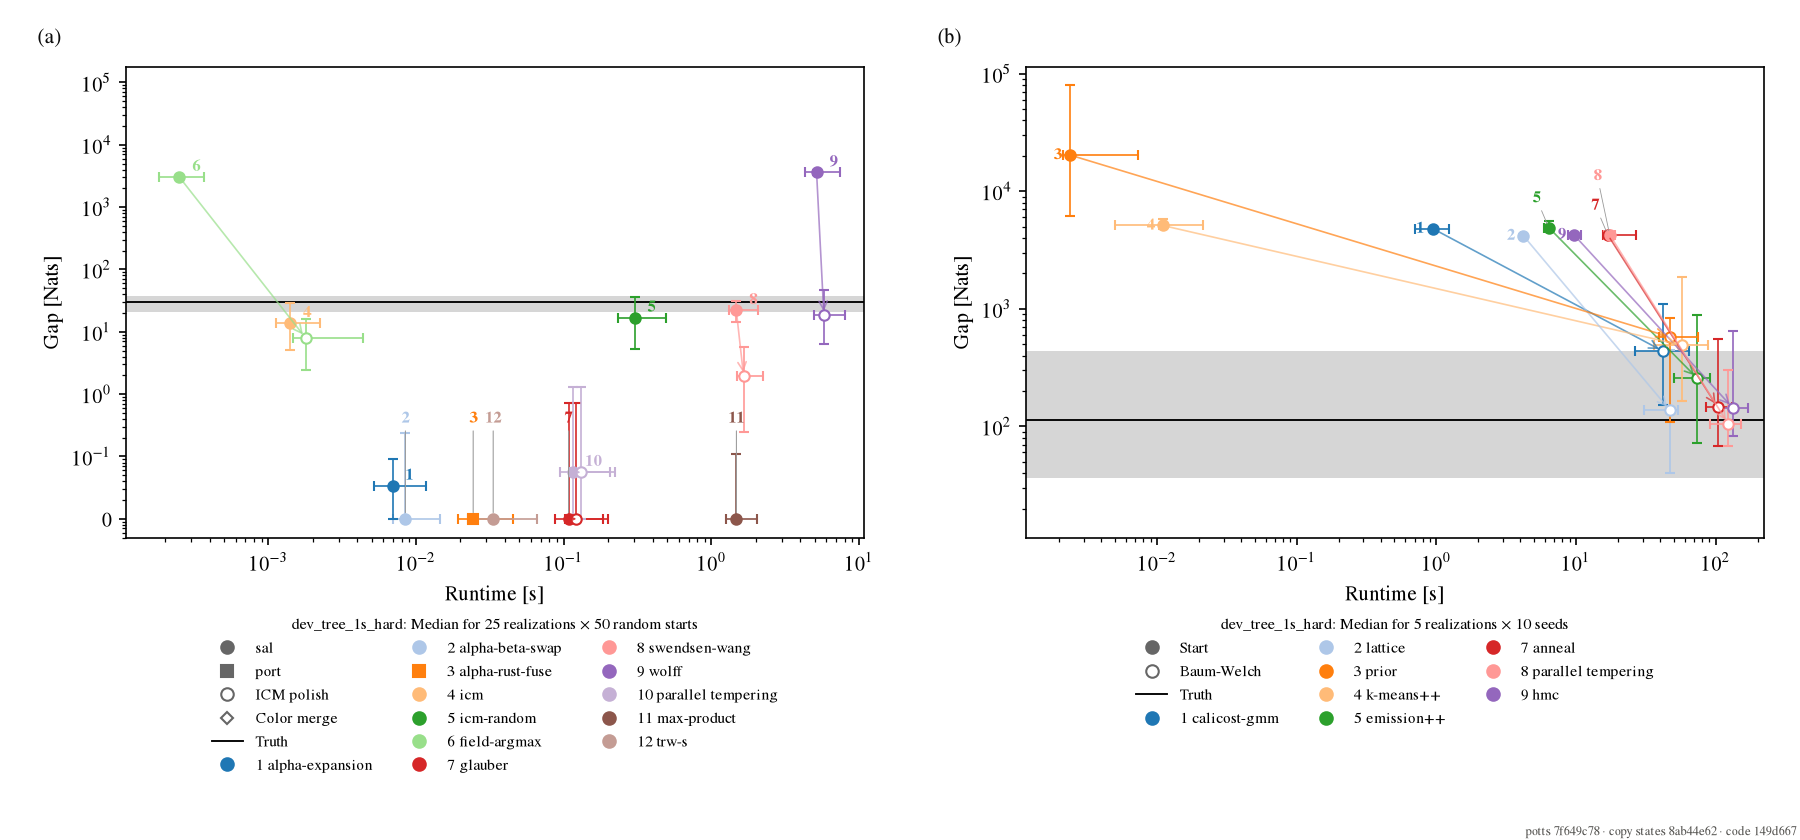
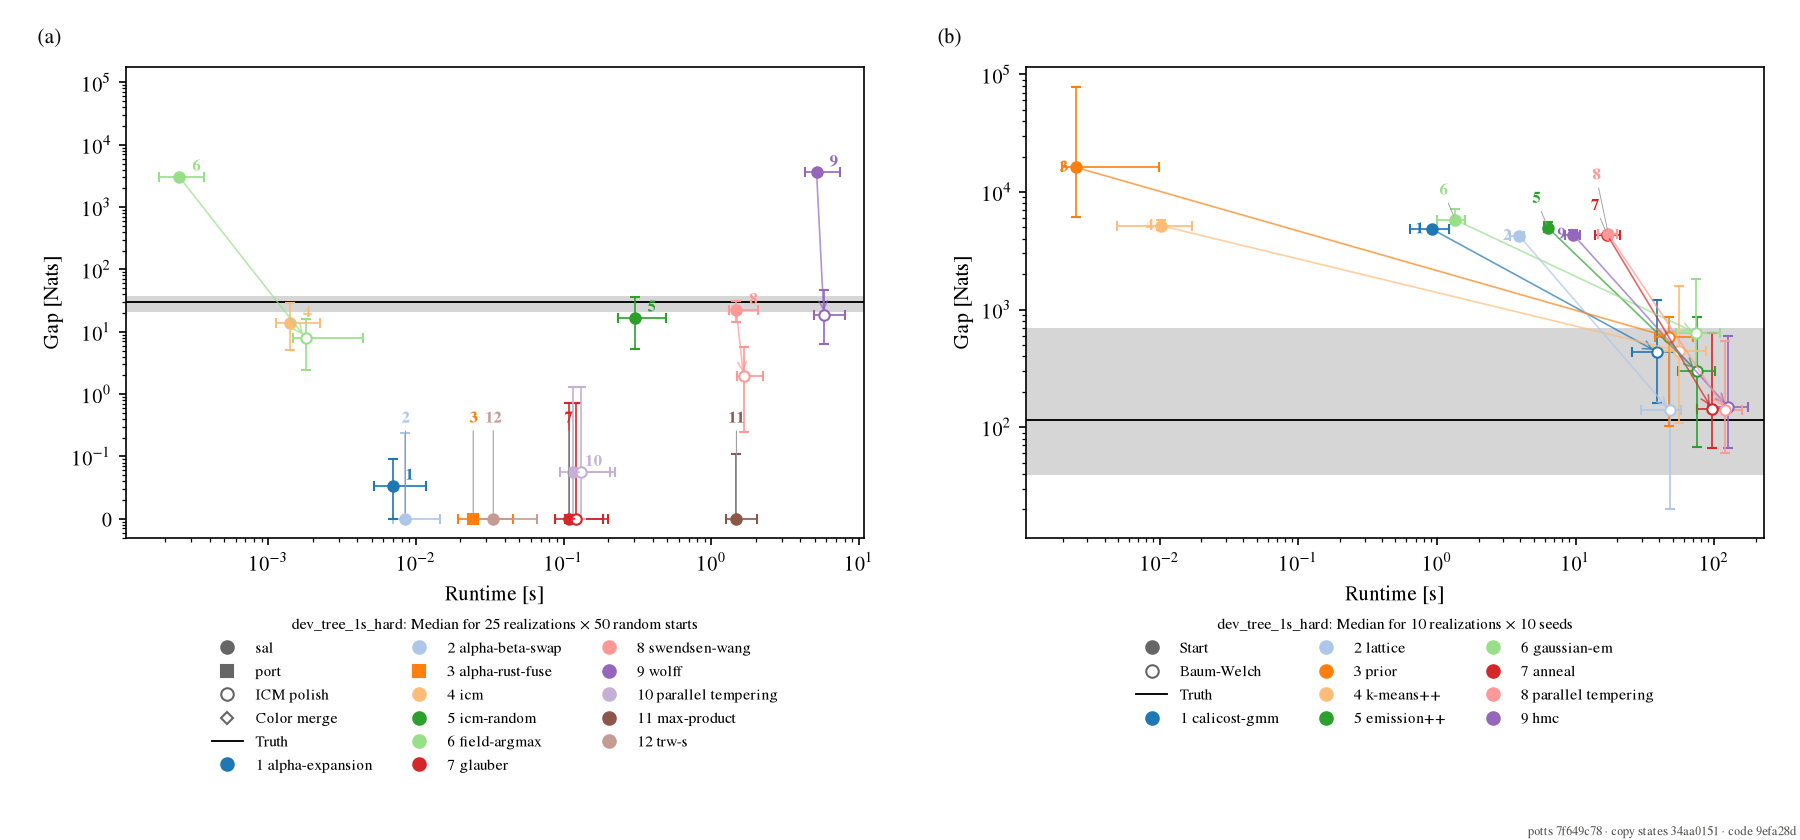
Copy-state study: lognormal dev_tree_1s_hard over 10 realizations (T- #662)
solver_combined.png panel (b) now draws r3-r12 x 10 seeds of
sim/manifests/dev_tree_1s_hard.toml (r0 9ec90dc2), record data 34aa0151,
code 9efa28d, sal 253c84f; it drew r3-r7 (data 8ab44e62) before.
docs/study-copy-states.md gains the lognormal table: HMM samplers 1.7%
missed after Baum-Welch, lattice 11.9% (neutral-state split, #564).

Claude-Session: https://claude.ai/code/session_013R45AV845g3YiWXZGEDB8u

diff --git a/docs/study-copy-states.md b/docs/study-copy-states.md
@@ -7,6 +7,10 @@ within 1.5% of rows missed after `--sal` Baum-Welch: `lattice`, `lattice` + EM a
 18.1–32.2%. A start's own miss rate does not predict the fit's: 5 × `emission++` starts at 1.4% and ends
 at 19.9%.
 
+**The paper's `solver_combined.png` draws a second generation (T- #662):** `sim/manifests/dev_tree_1s_hard.toml`,
+lognormal lengths, r0 `9ec90dc2`, not the exponential `baseline/` manifest (r0 `d2938975`) below. There the three
+HMM samplers end at 1.7% missed and `lattice` at 11.9%; see **Results: lognormal `dev_tree_1s_hard`**.
+
 **Rerun at 67d8874 (sal b61dfba, #633):** these are the rerun's numbers. It reproduces the original to 0.1
 point on 17 of 21 starts, and `gaussian-em` refuses 80 of 100 runs in both. The medoid of 30 `emission++`
 seeds ends at 1.1% missed ([0.9, 4.2] over r9–r12); the run of highest likelihood among them ends at 41.9%.
@@ -84,6 +88,44 @@ n = 100 each, start and Baum-Welch seconds under the host lock with only the six
 clone's point mass, and `sal` refuses rather than floor it (`ValueError` at the variance floor, every error
 of the rerun). The figure is `tests.studies.copy_state_plot` over the merged stream,
 stamped with its data hash and code commit.
+
+## Results: lognormal `dev_tree_1s_hard`, 10 realizations × 10 seeds (T- #662)
+
+`sim/manifests/dev_tree_1s_hard.toml` r3–r12 (r0 `9ec90dc2`, lognormal event lengths, #619): the same name as
+the table above, a different dataset. Record data `34aa0151`, drawn as panel (b) of
+`docs/plots/paper/solvers/solver_combined.png`. `STARTS` only, `--seeds 10 --held-out 3 --settings
+tests/studies/copy_sampler_settings.json`, 3 workers under the host lock, code `9efa28d`, sal `253c84f`.
+
+Medians over realizations × seeds (`lattice` is deterministic: 10 runs). Gap columns as above; the planted
+states, polished, sit 115 nats below the best and miss 2.9% of rows (median).
+
+| start | runs | start gap | after BW | Missed start / after [%] | runs > 5% missed | s |
+| --- | --- | --- | --- | --- | --- | --- |
+| `anneal-hmm` | 100 | 4,285 | 142 | 1.6 / 1.7 | 22% | 59 |
+| `tempering-hmm` | 100 | 4,384 | 141 | 1.7 / 1.7 | 17% | 63 |
+| `hmc-hmm` | 98 | 4,345 | 149 | 1.7 / 1.7 | 13% | 56 |
+| `gaussian-em` | 100 | 5,777 | 632 | 3.0 / 2.4 | 35% | 52 |
+| `prior` | 100 | 16,192 | 584 | 2.9 / 2.6 | 24% | 53 |
+| `lattice` | 10 | 4,243 | 139 | 1.5 / 11.9 | 70% | 62 |
+| `emission++` | 100 | 4,927 | 300 | 3.3 / 24.5 | 67% | 62 |
+| `kmeans++` | 100 | 5,159 | 442 | 6.5 / 29.8 | 83% | 54 |
+| `calicost-gmm` | 100 | 4,829 | 437 | 4.4 / 38.6 | 94% | 59 |
+
+- **`lattice`'s neutral-state split (#564).** Missed after Baum-Welch per realization, r3–r12: 22.4, 1.4, 12.1,
+  1.1, 31.3, 11.6, 8.6, 2.1, 28.1, 31.9%. It starts within 1.5% (median) on every realization; Baum-Welch then
+  splits the neutral state, as on r3 and r5 (T- #662). The planted states, polished, miss 27.4–44.5% on r3, r7,
+  r11 and r12, so the split is a property of the likelihood on this generation, not of the start. On the
+  `baseline/` generation `lattice` ends at 1.1%.
+- **Two refusals.** `hmc-hmm` seed 4 on r11 and r12: `sal`'s warm-up refuses a chain that never moved.
+  `gaussian-em` refused 50 of 50 runs on r3–r7 in PR- #661's record (data `8ab44e62`), on the venv's earlier sal
+  (not recorded); on sal `253c84f` it refuses none, at #661's code `901ea94` and at `9efa28d` alike (r3, seed 0,
+  same rows missed). Its numbers depend on the sal commit.
+- **Assembly.** r3–r7 of `calicost-gmm`, `lattice`, `prior`, `kmeans++`, `emission++` are #661's runs: at
+  `9efa28d` r3 seed 0 reproduces them bit for bit (missed and log-likelihood). The HMM samplers became `sal`'s
+  after #661 (#634) and `gaussian-em` changed with sal, so those four reran on r3–r7; r8–r12 ran in full.
+- **Seconds.** Jobs timed 03:23–04:14Z on 2026-10-06 shared the host with unlocked test gates; their r3–r5 jobs
+  reran under the lock, results identical (120 of 120), r3's median job 84 s → 59 s. #661's reused rows
+  (2026-10-05) sit within the interquartile range of the same starts' r8–r12 jobs.
 
 The key figure is committed as `docs/plots/paper/key_studies/557_copy-states.png` (`data 7cee0a0a ·
 code 67d8874`); `python -m tests.studies.copy_state_plot OUT/<stem>.pkl` redraws it beside the pickle.
